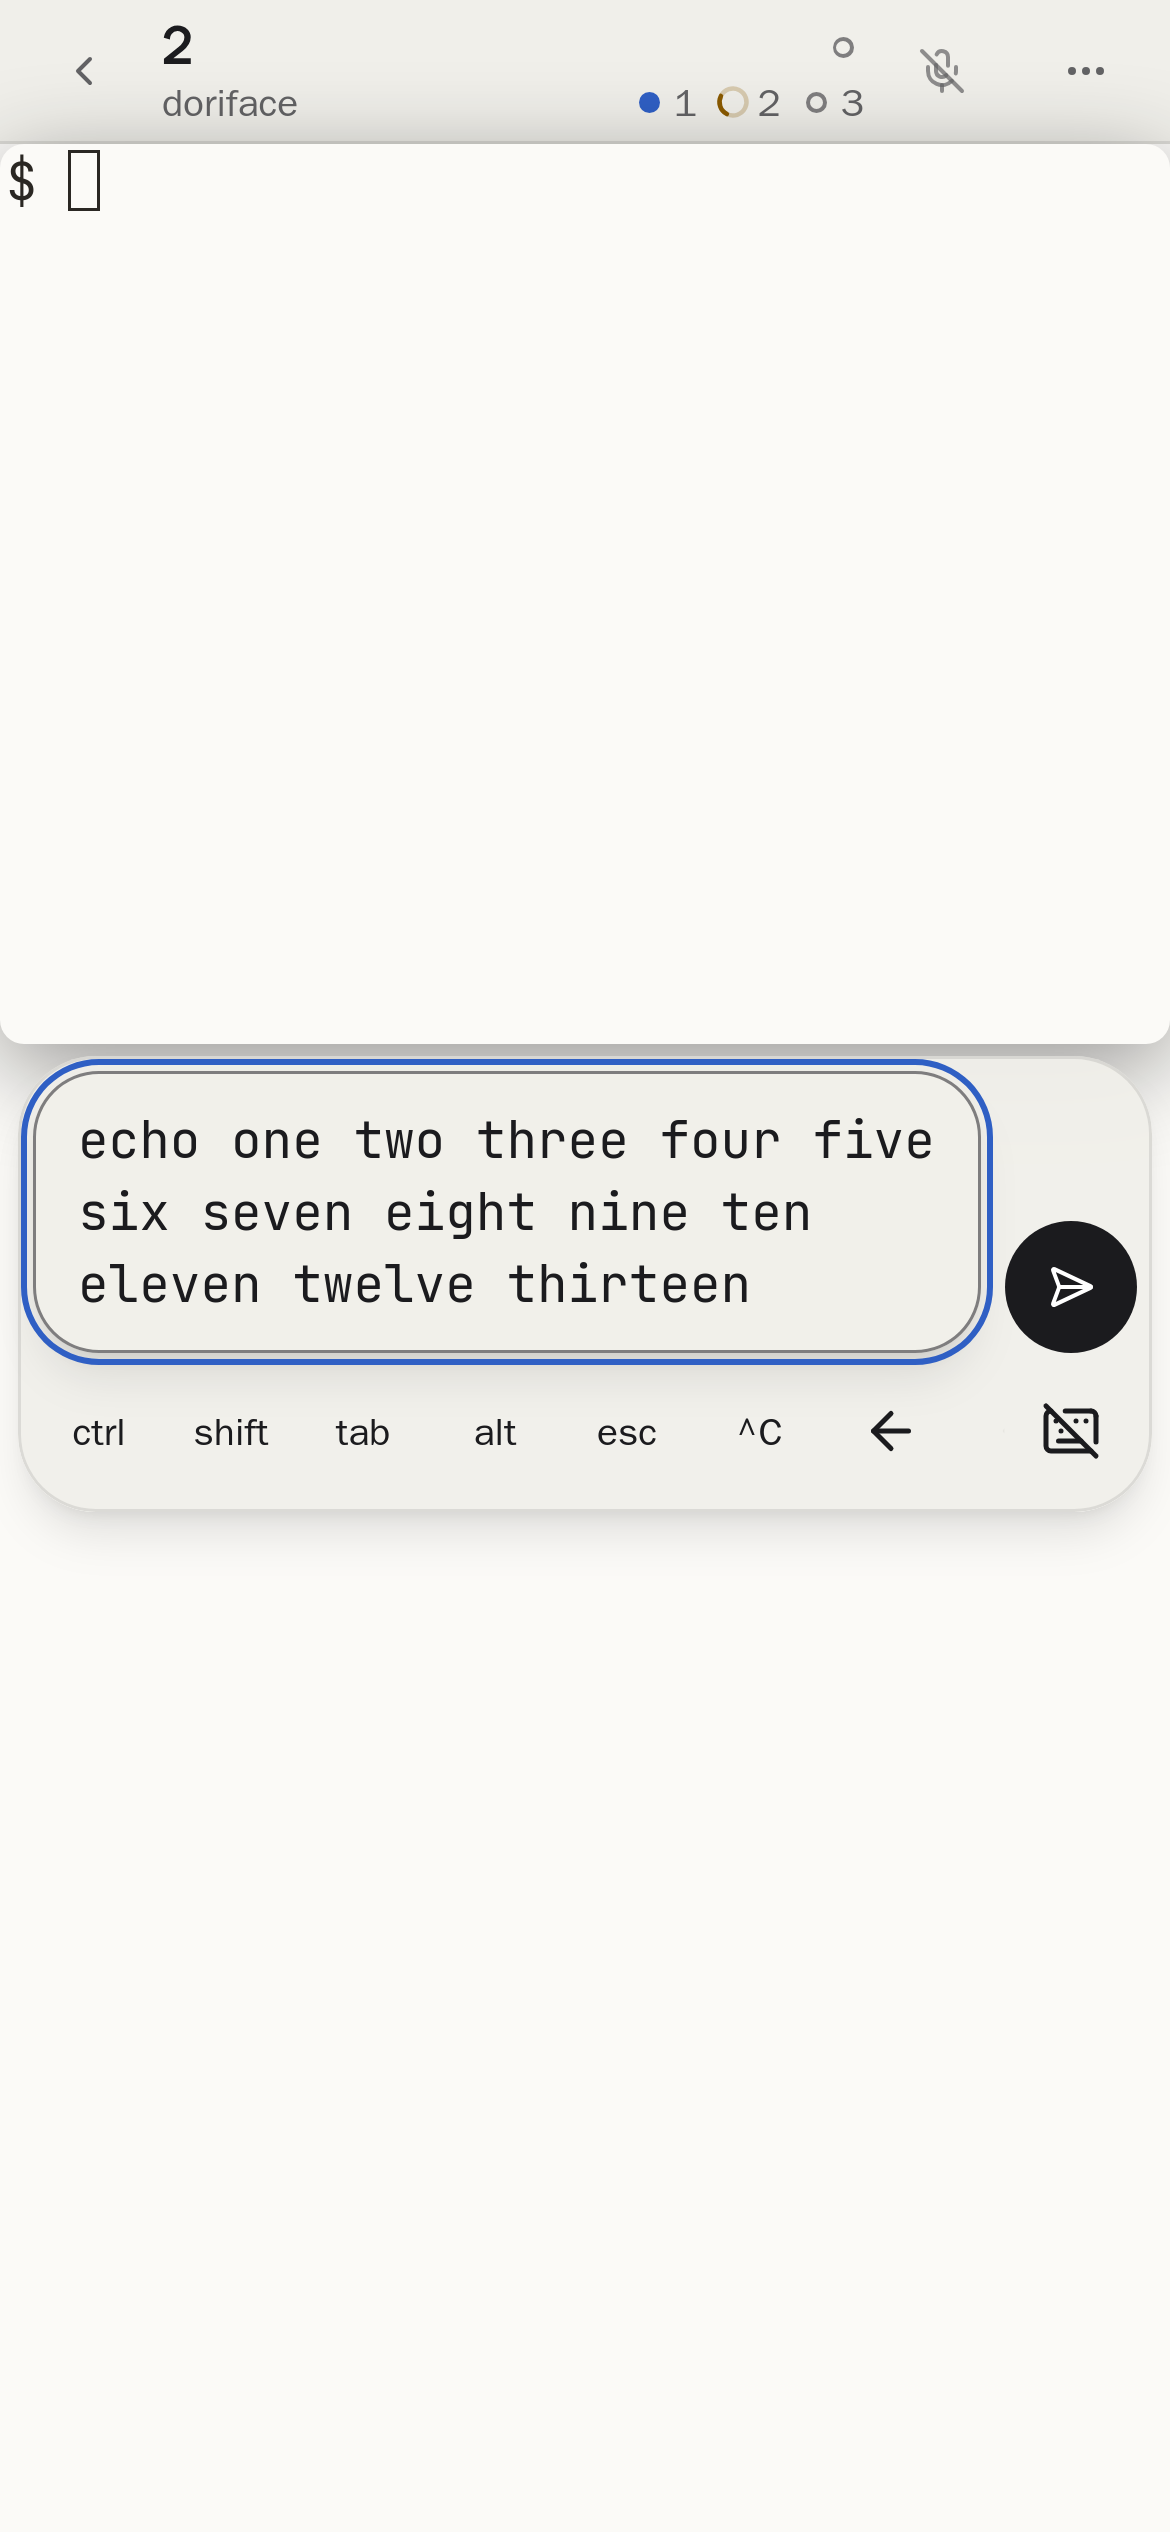
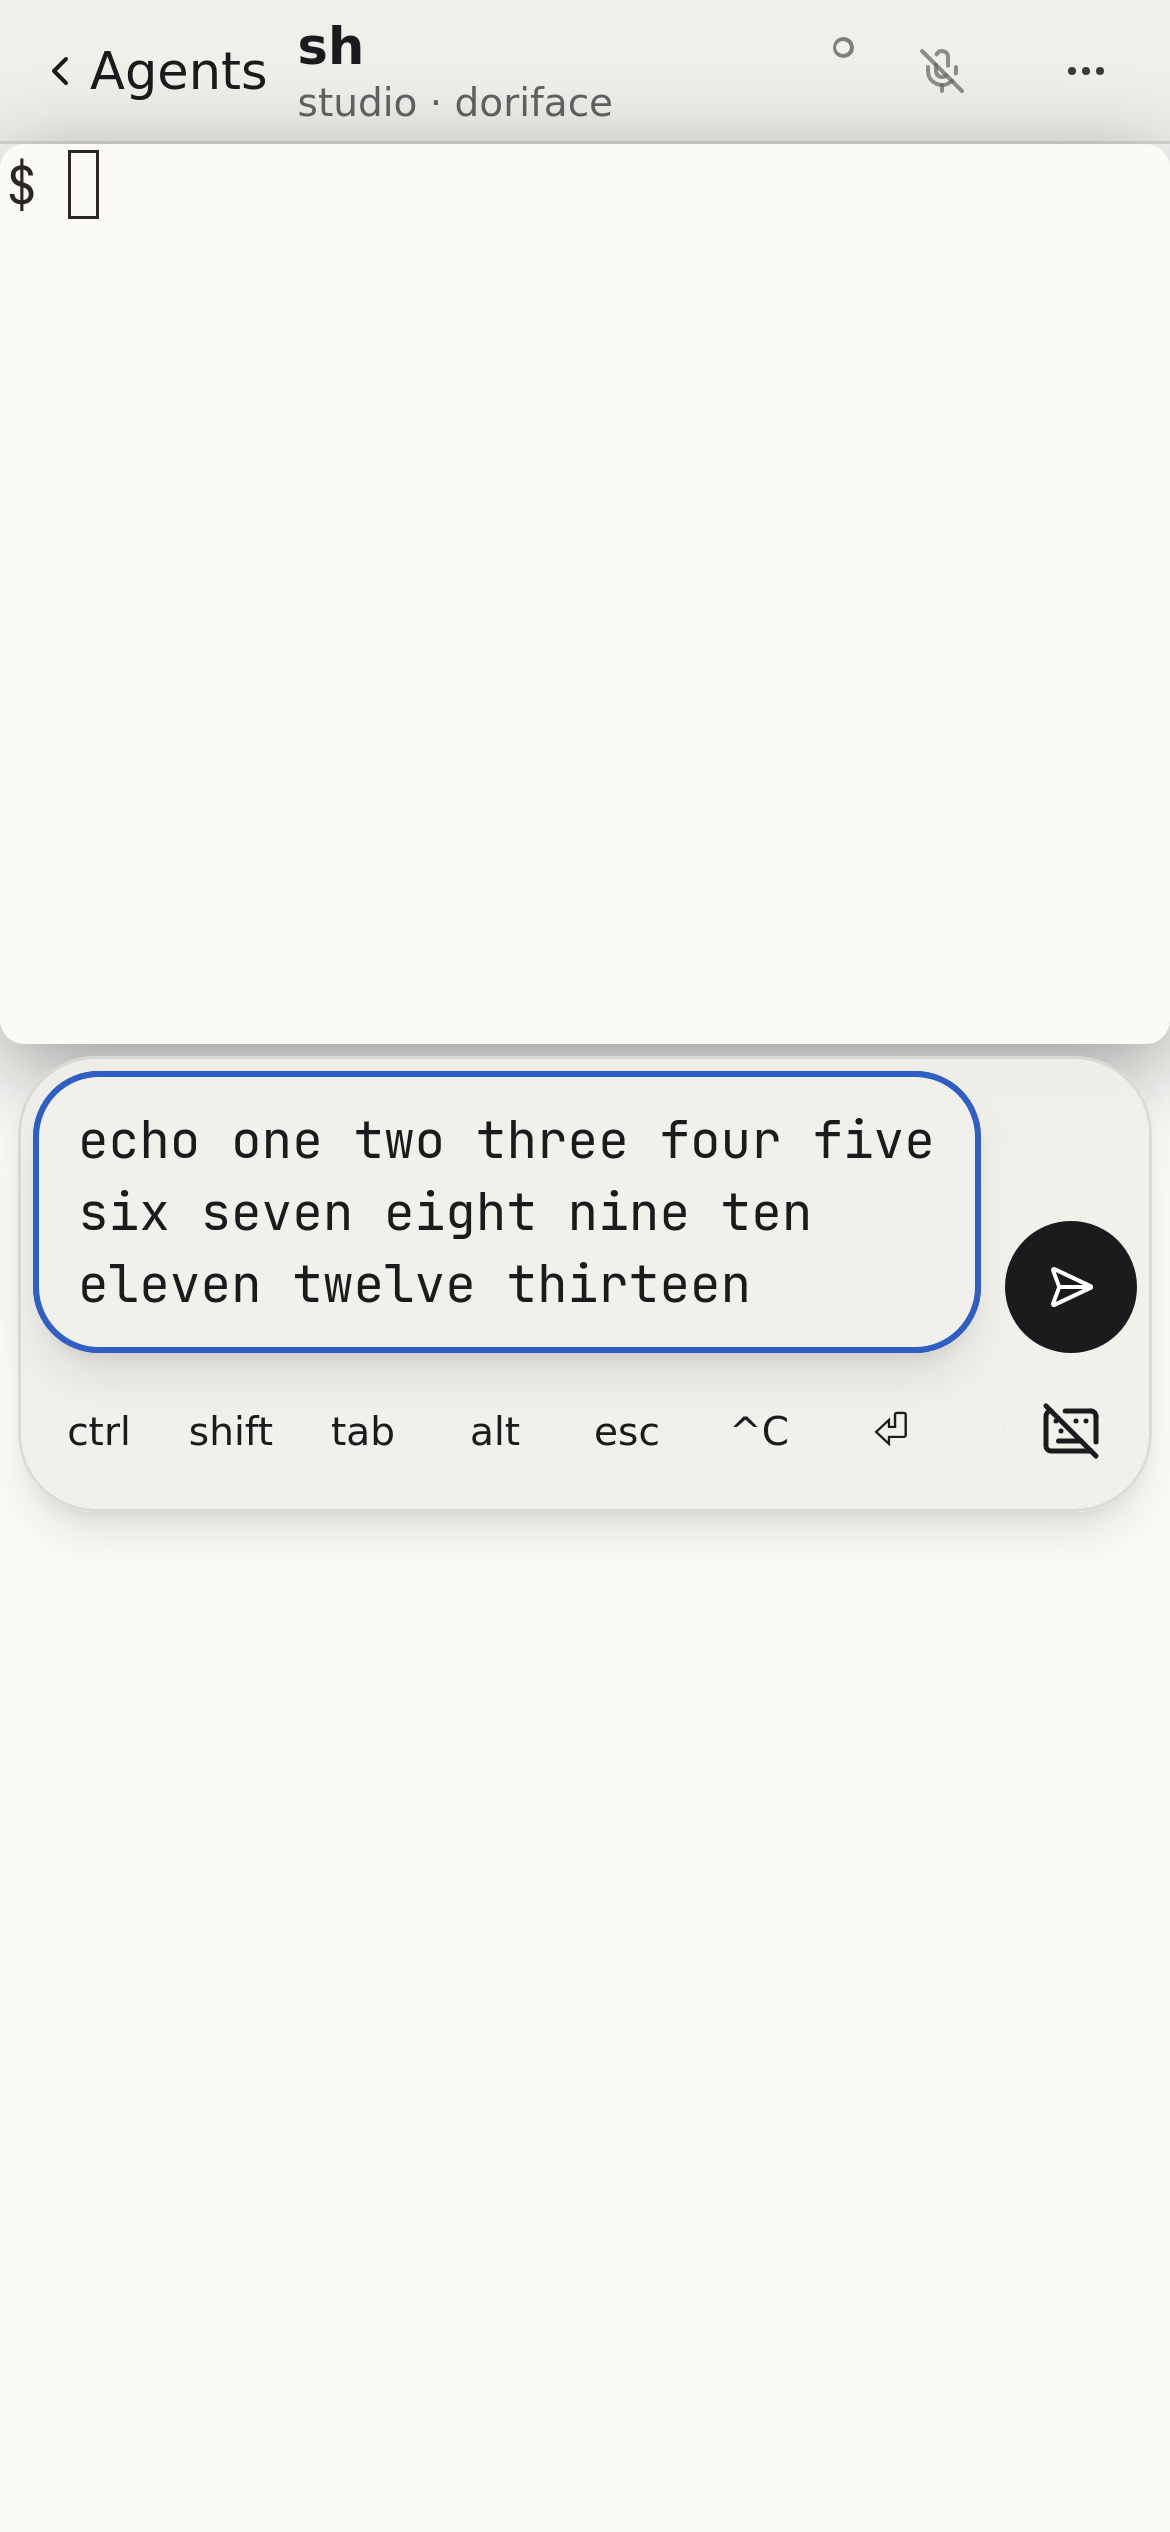
fix(web): the phone Type field draws its focus ring inside, so Send keeps its 0.5rem gap (Fixes #1516) (#1737)
* test(web): the focused Type field's ring leaves Send the phone chrome's 0.5rem (RED, #1516)

* fix(web): the phone Type field draws its focus ring inside, so Send keeps its 0.5rem gap (Fixes #1516)

The field's focus-visible outline was drawn outside its box and took 4 px of the 8 px gap #1512 opened before Send. An
outline offset of minus its width draws it inside the field, so the visible gap is the phone chrome's 0.5rem with the
field focused, idle and grown. Captures for both themes, idle, focused and grown, in WebKit.

* changes: name the fragment by its PR (#1737)

diff --git a/apps/web/e2e/phone-send-gap.e2e.ts b/apps/web/e2e/phone-send-gap.e2e.ts
@@ -11,6 +11,24 @@ const OUT = join(import.meta.dirname, "../../../docs/design/app");
 
 const field = (page: Page) => page.getByLabel("Type into the terminal");
 
+/**
+ * The space between the focused field's focus outline, at its outer edge, and Send's left edge, in CSS px (#1516). An
+ * outline drawn outside the field's box takes that much of the gap; one drawn inside it takes none.
+ */
+async function ringGap(page: Page): Promise<number> {
+  const [outer, send] = await Promise.all([
+    field(page).evaluate((element) => {
+      const style = getComputedStyle(element);
+      const outside =
+        style.outlineStyle === "none" ? 0 : parseFloat(style.outlineWidth) + parseFloat(style.outlineOffset);
+      return element.getBoundingClientRect().right + Math.max(0, outside);
+    }),
+    key(page, "Send").boundingBox(),
+  ]);
+  if (send === null) throw new Error("Send is not laid out");
+  return send.x - outer;
+}
+
 /** The space between the field's right edge and Send's left edge, and both controls' sizes, in CSS px. */
 async function measure(page: Page): Promise<{ gap: number; send: { width: number; height: number }; field: number }> {
   const [box, send] = await Promise.all([field(page).boundingBox(), key(page, "Send").boundingBox()]);
@@ -48,11 +66,16 @@ for (const theme of ["day", "night"] as const) {
     await shot("idle");
 
     await field(page).click();
+    await expect(field(page)).toBeFocused();
+    // Focused, the ring stays inside the field, so the visible gap to Send is still the chrome's 0.5rem (#1516).
+    expect(await ringGap(page)).toBe(8);
+    await shot("idle-focused");
     await page.keyboard.type("echo one two three four five six seven eight nine ten eleven twelve thirteen");
     await expect.poll(async () => (await field(page).boundingBox())?.height ?? 0).toBeGreaterThan(44);
     const grown = await measure(page);
     expect(grown.gap).toBe(8);
     expect(grown.send).toEqual({ width: 44, height: 44 });
+    expect(await ringGap(page)).toBe(8);
     await shot("grown");
     info.annotations.push({
       type: "send-gap",

diff --git a/apps/web/src/workspace/input-box.tsx b/apps/web/src/workspace/input-box.tsx
@@ -92,7 +92,7 @@ export function InputBox({ onSend, draftKey, className, style }: InputBoxProps) 
         }}
         className={cn(
           "min-h-11 min-w-0 flex-1 resize-none border border-input bg-chrome/95 px-3.5 py-2.5 font-mono text-base leading-6 wrap-break-word whitespace-pre-wrap text-foreground",
-          "shadow-lg outline-none backdrop-blur-md placeholder:text-muted-foreground focus-visible:outline-2 focus-visible:outline-solid focus-visible:outline-ring",
+          "shadow-lg outline-none backdrop-blur-md placeholder:text-muted-foreground focus-visible:outline-2 focus-visible:-outline-offset-2 focus-visible:outline-solid focus-visible:outline-ring",
           active ? "rounded-[1.375rem]" : "h-11 rounded-full",
         )}
         placeholder="Type"

diff --git a/changes/unreleased/1737.md b/changes/unreleased/1737.md
@@ -1,0 +1,3 @@
+### Phone
+
+- The Type field's focus ring is drawn inside the field, so it no longer eats into the gap before Send. (#1737)
